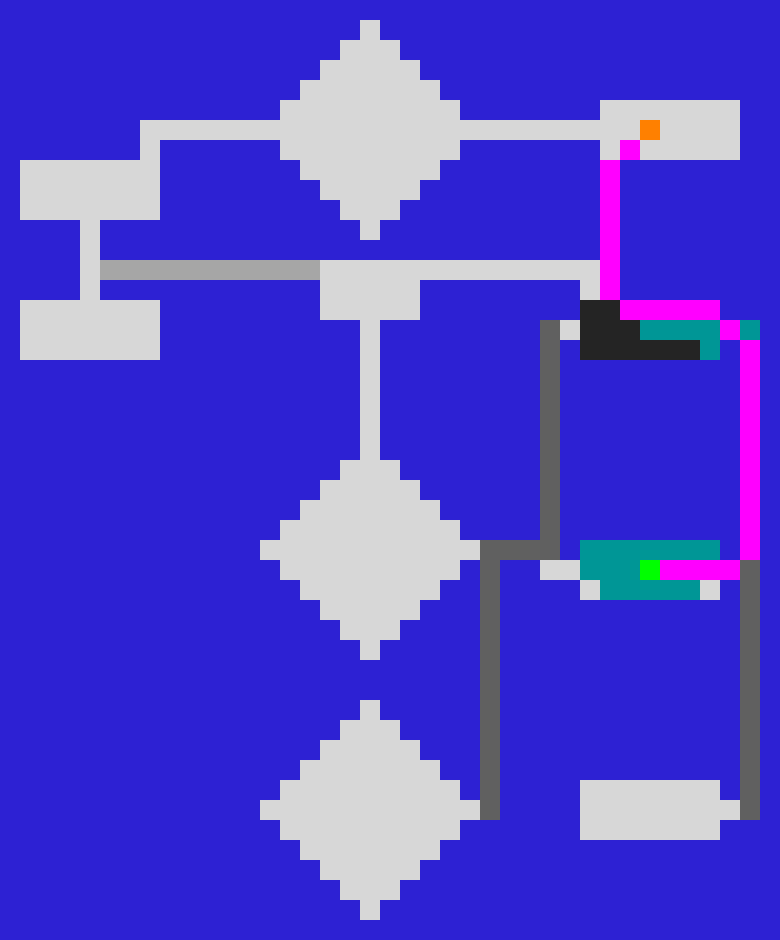
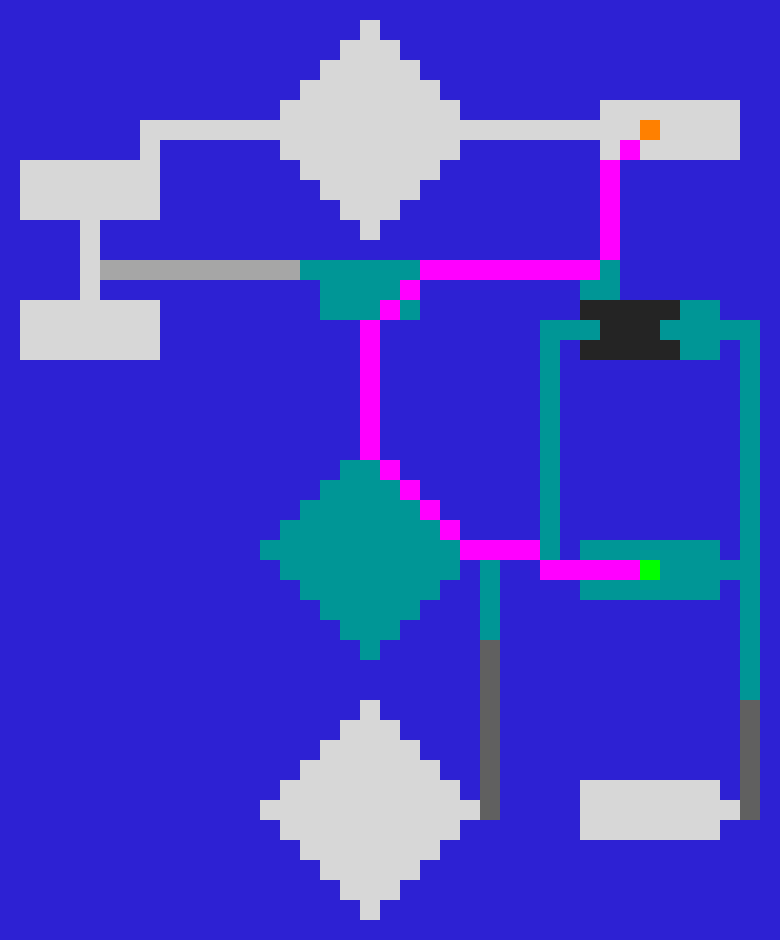
Fixes

Changed region(s): [[0.3385, 0.2777, 0.9846, 0.7404]]

diff --git a/assignement_2/a_star.py b/assignement_2/a_star.py
@@ -90,7 +90,7 @@ def aStar(task, tuning_param):
             print("Solution has been found! \n")
             #Higlight the starting point as green
             map.replace_map_values(map.get_start_pos(), 5, map.get_goal_pos())
-            #map.update_image(True)
+            map.update_image(True)
             return path[::-1] , num_iter
         
         neighbour_nodes = get_neighbours(current_node)
@@ -137,6 +137,8 @@ def tuning():
     plt.ylabel("Number of iterations")
     plt.savefig("tuning_param.png")
     plt.show()
-tuning()
+
+
 if __name__ == "__main__":
-    aStar(1, 1)
+    for i in range(1,5):
+        aStar(i, 1)

diff --git a/itgk.py b/itgk.py
@@ -1,0 +1,9 @@
+
+
+def print_table(n):
+    for i in range(1,n+1):
+        for j in range(1,n+1):
+            print(i*j, end="\t")
+        print("\n")
+
+print_table(10)
